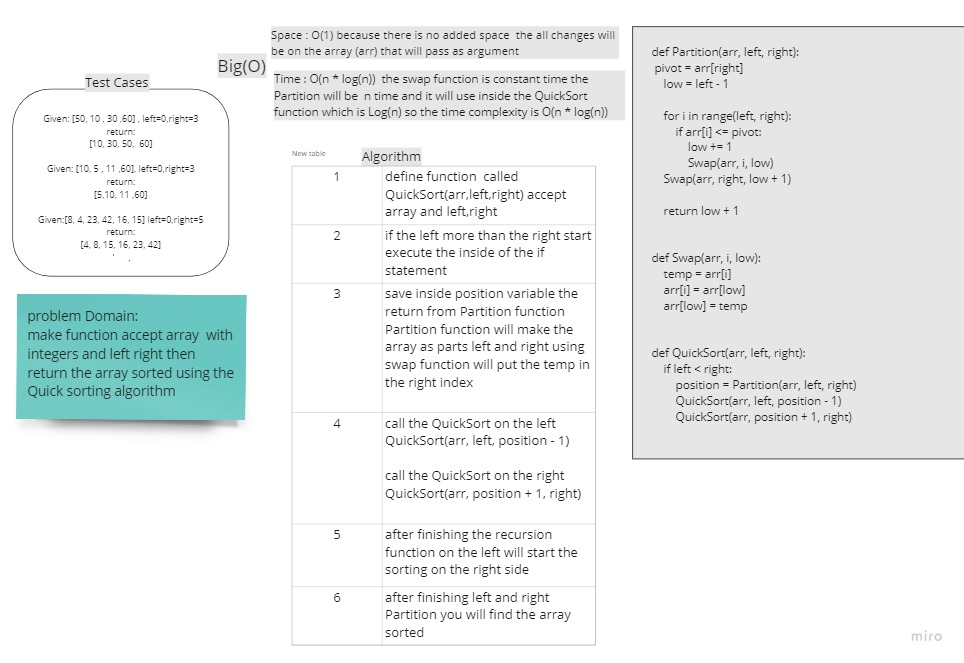
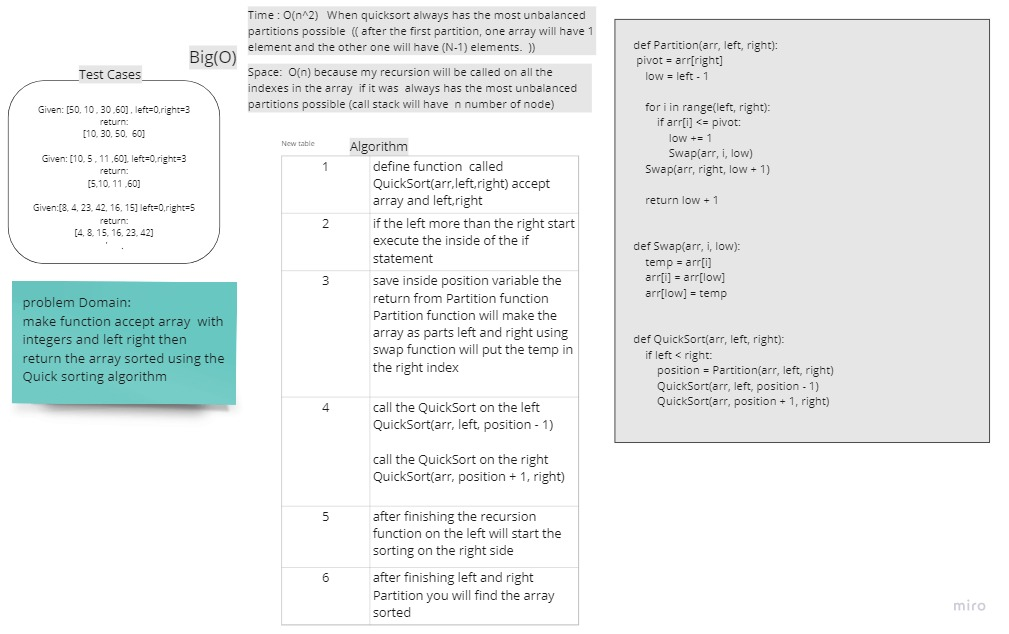
edite: time and space complexity in the whiteboard and the README.md file

Changed region(s): [[0.0, 0.0, 1.0, 0.989], [0.0, 0.4495, 0.2801, 0.6593]]

diff --git a/sorting/quick/README.md b/sorting/quick/README.md
@@ -8,11 +8,17 @@ make function accept array and left, right  all integers then return the array s
 ![](../../images/QuickSort_whiteboard.jpg)
 ## Approach & Efficiency
 <!-- What approach did you take? Why? What is the Big O space/time for this approach? -->
-following the  Quick sorting to sort the array with less Time complexity and also less space complexity 
+following the  Quick sorting to sort the array with less Time complexity and also less space complexity (not on all cases)
 
-Space : O(1) because there is no added space  the all changes will be on the array (arr) that will pass as argument
+Time : O(n^2)   When quicksort always has the most unbalanced partitions possible  (( after the first partition, one array will have 1 element and the other one will have (N-1) elements.  ))
 
-Time : O(n * log(n))  the swap function is constant time the Partition will be  n time and it will use inside the QuickSort function which is Log(n) so the time complexity is O(n * log(n))
+
+Space:  O(n) because my recursion will be called on all the indexes in the array  if it was  always has the most unbalanced partitions possible (call stack will have  n number of node)
+
+ ### this image will show you tree with most unbalanced partitions possible
+
+![](../../images/QuickSortTree.png)
+
 
 ## Solution
 <!-- Show how to run your code, and examples of it in action -->
